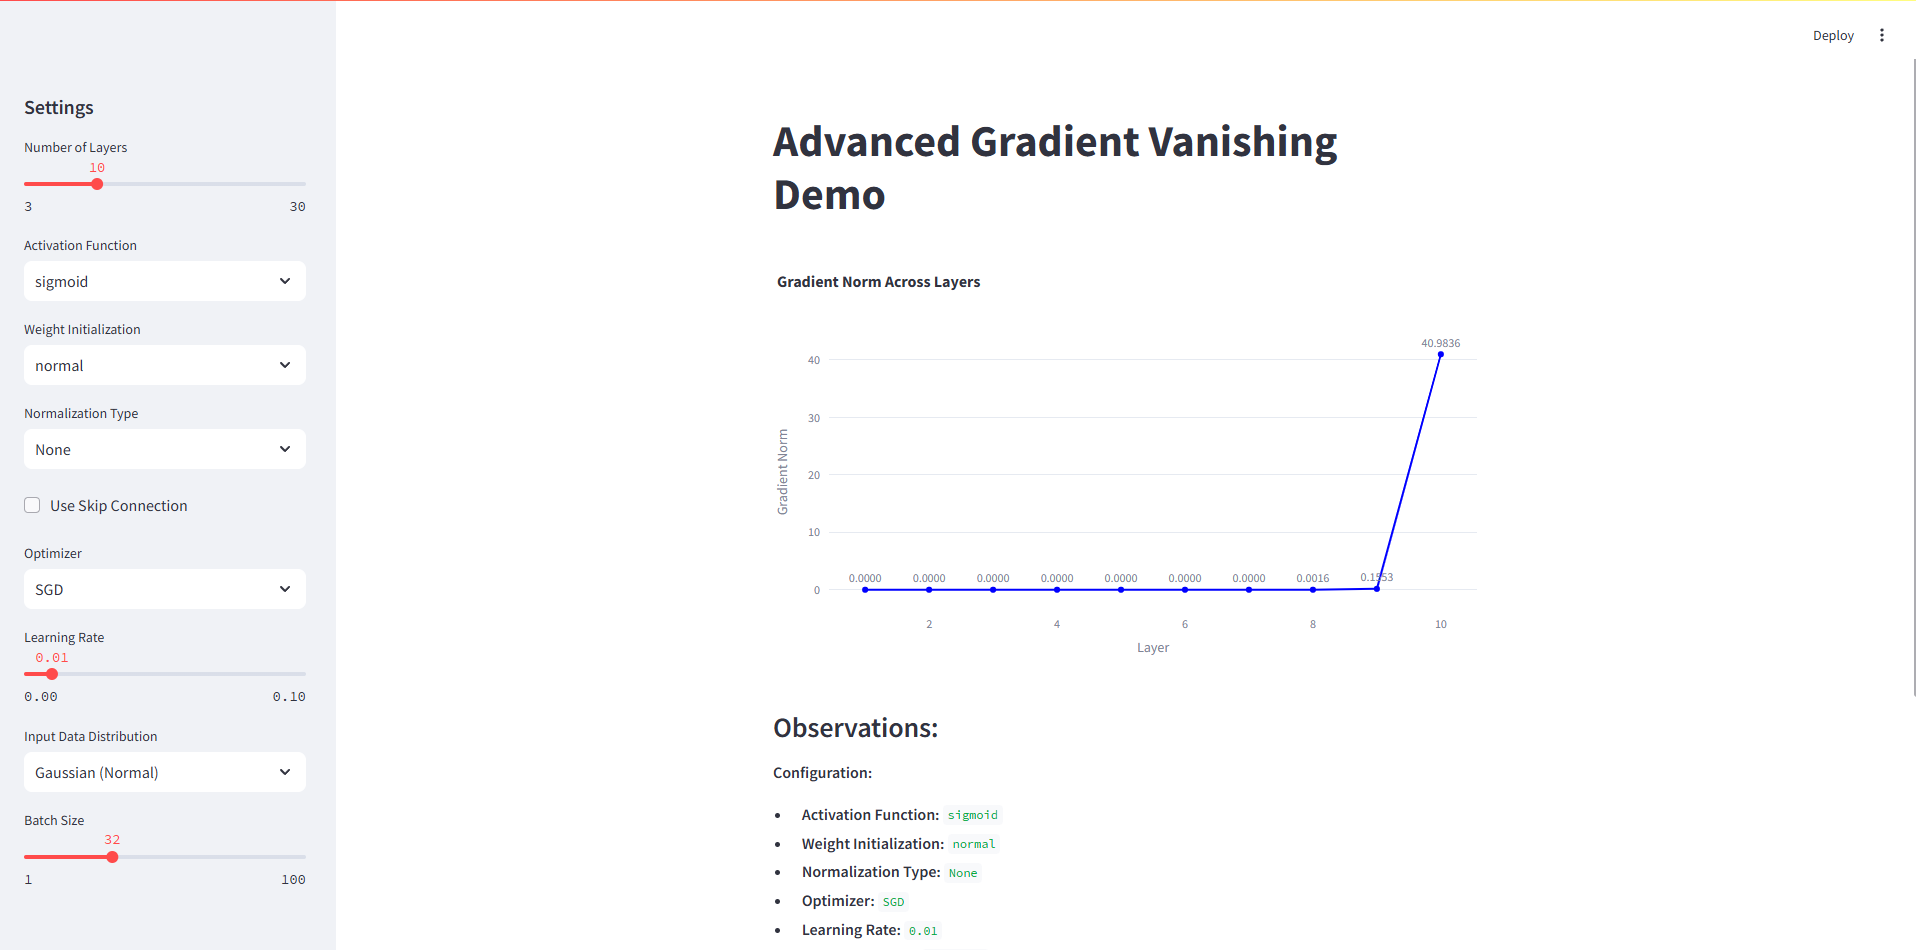
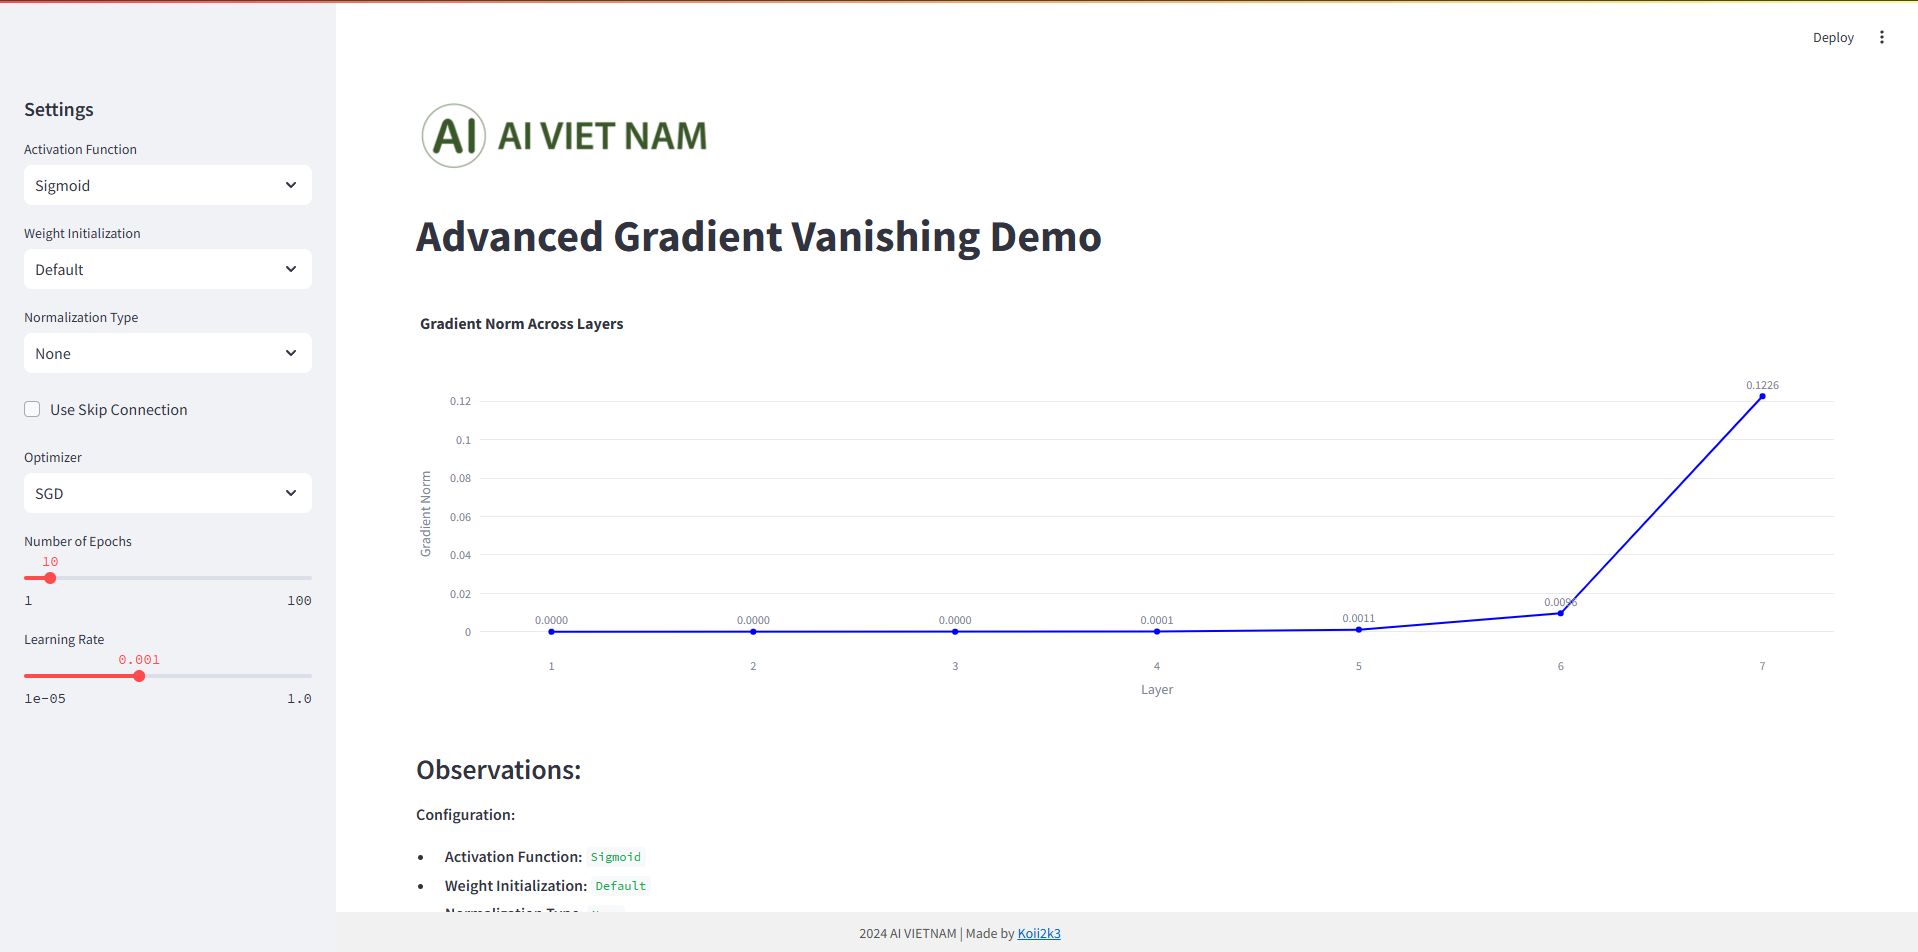
feat 🎊: gradient vanishing v2

diff --git a/app.py b/app.py
@@ -4,10 +4,36 @@ import torch.nn as nn
 import torch.nn.functional as F
 import plotly.graph_objects as go
 
+# Add Favicon
+st.set_page_config(
+    page_title="AIVN - Advanced Gradient Vanishing Demo",
+    page_icon="./static/aivn_favicon.png",
+    layout="wide",
+    initial_sidebar_state="expanded"
+)
+
+torch.cuda.empty_cache()
+
+# Add logo
+st.image("./static/aivn_logo.png", width=300)
+
+SEED = 42
+torch.manual_seed(SEED)
+
+
+class MyNormalization(nn.Module):
+    def __init__(self):
+        super(MyNormalization, self).__init__()
+
+    def forward(self, x):
+        mean = torch.mean(x, dim=0, keepdim=True)
+        std = torch.std(x, dim=0, keepdim=True)
+        return (x - mean) / (std + 1e-5)
+
 
 # Define a simple deep neural network
 class SimpleNN(nn.Module):
-    def __init__(self, num_layers=10, activation="sigmoid", init_weights="normal", norm_type=None, use_skip=False):
+    def __init__(self, num_layers=7, activation="sigmoid", init_weights="normal", norm_type=None, use_skip=False):
         super(SimpleNN, self).__init__()
         self.layers = nn.ModuleList()
         self.activation = activation
@@ -16,23 +42,28 @@ class SimpleNN(nn.Module):
         self.norm_layers = nn.ModuleList()
 
         # Add layers
-        for i in range(num_layers):
+        for _ in range(num_layers):
             self.layers.append(nn.Linear(10, 10))
             if norm_type == "BatchNorm":
                 self.norm_layers.append(nn.BatchNorm1d(10))
-            elif norm_type == "LayerNorm":
-                self.norm_layers.append(nn.LayerNorm(10))
+            elif norm_type == "CustomNorm":
+                self.norm_layers.append(MyNormalization())
 
         self.init_weights(init_weights)
 
     def init_weights(self, method):
-        for layer in self.layers:
-            if method == "normal":
-                nn.init.normal_(layer.weight, mean=0, std=0.01)
-            elif method == "xavier":
-                nn.init.xavier_uniform_(layer.weight)
-            elif method == "he":
-                nn.init.kaiming_uniform_(layer.weight, nonlinearity="relu")
+        if method == "Default":
+            pass
+        elif method == "Increase_std=1.0":
+            for module in self.modules():
+                if isinstance(module, nn.Linear):
+                    nn.init.normal_(module.weight, mean=0.0, std=1.0)
+                    nn.init.constant_(module.bias, 0.0)
+        elif method == "Increase_std=10.0":
+            for module in self.modules():
+                if isinstance(module, nn.Linear):
+                    nn.init.normal_(module.weight, mean=0.0, std=10.0)
+                    nn.init.constant_(module.bias, 0.0)
 
     def forward(self, x):
         skip_connection = x
@@ -44,16 +75,12 @@ class SimpleNN(nn.Module):
                 x = self.norm_layers[i](x)
 
             # Apply activation function
-            if self.activation == "sigmoid":
+            if self.activation == "Sigmoid":
                 x = torch.sigmoid(x)
-            elif self.activation == "tanh":
+            elif self.activation == "Tanh":
                 x = torch.tanh(x)
-            elif self.activation == "relu":
+            elif self.activation == "ReLU":
                 x = F.relu(x)
-            elif self.activation == "leaky_relu":
-                x = F.leaky_relu(x, negative_slope=0.01)
-            elif self.activation == "swish":
-                x = x * torch.sigmoid(x)
 
             # Add skip connection
             if self.use_skip and i % 2 == 1:
@@ -69,22 +96,24 @@ st.title("Advanced Gradient Vanishing Demo")
 st.sidebar.header("Settings")
 
 # Number of layers
-num_layers = st.sidebar.slider(
-    "Number of Layers", min_value=3, max_value=30, value=10, step=1)
+# num_layers = st.sidebar.slider(
+# "Number of Layers", min_value=3, max_value=30, value=10, step=1)
+num_layers = 7
 
 # Activation function
 activation = st.sidebar.selectbox(
-    "Activation Function", ["sigmoid", "tanh", "relu", "leaky_relu", "swish"]
+    "Activation Function", ["Sigmoid", "Tanh", "ReLU"]
 )
 
 # Weight initialization
 init_weights = st.sidebar.selectbox(
-    "Weight Initialization", ["normal", "xavier", "he"]
+    "Weight Initialization", [
+        "Default", "Increase_std=1.0", "Increase_std=10.0"]
 )
 
 # Normalization
 norm_type = st.sidebar.selectbox(
-    "Normalization Type", ["None", "BatchNorm", "LayerNorm"]
+    "Normalization Type", ["None", "BatchNorm", "CustomNorm"]
 )
 
 # Skip connection
@@ -95,18 +124,25 @@ optimizer_type = st.sidebar.selectbox(
     "Optimizer", ["SGD", "Adam"]
 )
 
-# Learning rate
-learning_rate = st.sidebar.slider(
-    "Learning Rate", min_value=0.0001, max_value=0.1, value=0.01, step=0.0001)
+# Number of epochs
+num_epochs = st.sidebar.slider(
+    "Number of Epochs", min_value=1, max_value=100, value=10)
 
-# Input data distribution
-input_type = st.sidebar.selectbox(
-    "Input Data Distribution", ["Gaussian (Normal)", "Uniform"]
+# Learning rate
+learning_rate = st.sidebar.select_slider(
+    "Learning Rate", options=[1e-5, 1e-4, 1e-3, 1e-2, 1e-1, 1e0], value=1e-3
 )
 
+# Input data distribution
+# input_type = st.sidebar.selectbox(
+#     "Input Data Distribution", ["Gaussian (Normal)", "Uniform"]
+# )
+input_type = "Gaussian (Normal)"
+
 # Batch size
-batch_size = st.sidebar.slider(
-    "Batch Size", min_value=1, max_value=100, value=32)
+# batch_size = st.sidebar.slider(
+#     "Batch Size", min_value=1, max_value=100, value=32)
+batch_size = 32
 
 # Generate input data
 if input_type == "Gaussian (Normal)":
@@ -128,9 +164,18 @@ elif optimizer_type == "Adam":
 output = model(input_data)
 
 # Compute gradients
-loss = torch.sum(output)  # Dummy loss
-optimizer.zero_grad()
-loss.backward()
+criterion = nn.MSELoss()  # Use Mean Squared Error
+target = torch.zeros_like(output)  # Dummy target to compute the loss
+
+# Train model for multiple epochs
+losses = []
+for epoch in range(num_epochs):
+    optimizer.zero_grad()  # Zero the gradients
+    output = model(input_data)  # Forward pass
+    loss = criterion(output, target)  # Calculate loss
+    loss.backward()  # Backpropagation
+    optimizer.step()  # Update model weights
+    losses.append(loss.item())  # Track the loss value
 
 # Extract gradients
 gradients = []
@@ -139,6 +184,7 @@ for i, layer in enumerate(model.layers):
         gradients.append(layer.weight.grad.norm().item())
     else:
         gradients.append(0)
+
 
 # Interactive plot using Plotly
 fig = go.Figure()
@@ -184,4 +230,27 @@ st.markdown(
     - Maximum Gradient Norm: **{max(gradients):.4f}**
     - Gradient Norms displayed above for each layer.
     """
+)
+
+# Footer
+st.markdown(
+    """
+    <style>
+    .footer {
+        position: fixed;
+        bottom: 0;
+        left: 0;
+        width: 100%;
+        background-color: #f1f1f1;
+        text-align: center;
+        padding: 10px 0;
+        font-size: 14px;
+        color: #555;
+    }
+    </style>
+    <div class="footer">
+        2024 AI VIETNAM | Made by <a href="https://github.com/Koii2k3/GradientVanishing" target="_blank">Koii2k3</a>
+    </div>
+    """,
+    unsafe_allow_html=True
 )

diff --git a/README.md b/README.md
@@ -1,4 +1,3 @@
-
 # Advanced Gradient Vanishing Demo
 
 This project demonstrates the **vanishing gradient problem** and visualizes gradients across layers in a neural network. It uses **Streamlit** for an interactive web interface, allowing users to explore the effects of various configurations like activation functions, weight initialization, normalization, and skip connections on gradient behavior.
@@ -10,11 +9,12 @@ This project demonstrates the **vanishing gradient problem** and visualizes grad
 - Visualize **Gradient Norm** across layers in a deep neural network.
 - Adjust model configurations via an interactive **Streamlit sidebar**:
   - Number of layers.
-  - Activation functions (Sigmoid, ReLU, etc.).
-  - Weight initialization (Normal, Xavier, He).
-  - Normalization types (BatchNorm, LayerNorm).
+  - Activation functions (Sigmoid, Tanh, ReLU).
+  - Weight initialization (Default, Increasing_std=1.0, Increasing_std=10.0).
+  - Normalization types (BatchNorm, CustomNorm).
   - Learning rate and optimizer (SGD, Adam).
   - Skip connection support.
+  - Training epochs.
 - Interactive **Plotly chart** to display gradient values layer by layer.
 - Detailed **observations** about the model configuration and gradient behavior.
 
@@ -30,11 +30,6 @@ This project demonstrates the **vanishing gradient problem** and visualizes grad
 Run the following command to install all necessary dependencies:
 ```bash
 pip install -r requirements.txt
-```
-
-If you don't have the `requirements.txt` file, you can install the required libraries manually:
-```bash
-pip install streamlit torch plotly numpy
 ```
 
 ---
@@ -71,3 +66,4 @@ streamlit run app.py
 - **Streamlit**: For providing an easy-to-use interactive interface.
 - **PyTorch**: For building neural network models.
 - **Plotly**: For creating interactive visualizations.
+
